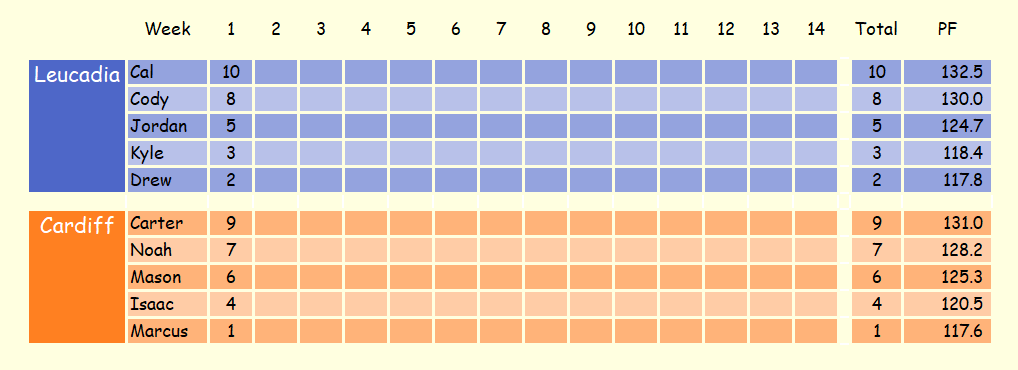
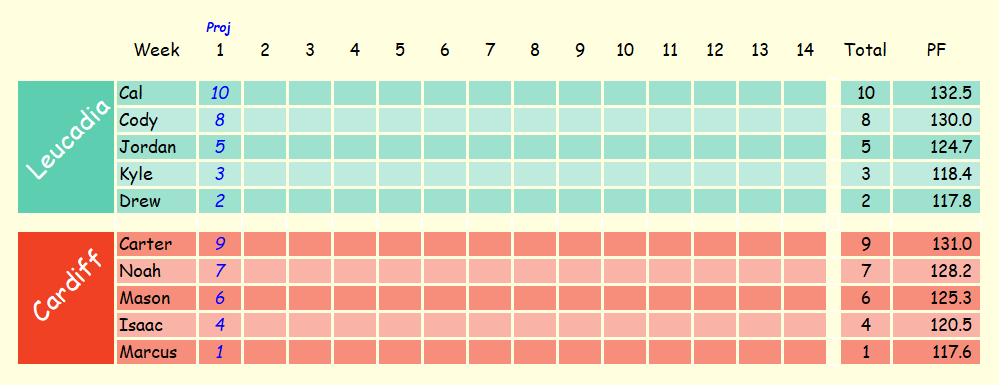
update scoreboard and html

diff --git a/link.html b/link.html
@@ -52,7 +52,7 @@
 
   <div class="container">
     <div class="nav">
-      <a href="#">Home</a> |
+      <a href="index.html">Home</a> |
       <a href="#">Hoots I have to give</a> |
       <a href="#">Championships Isaac has won</a> |
       <a href="#">Good idea list</a>
@@ -63,14 +63,14 @@
       <h1>Encinitas Dynasty</h1>
       <p><strong>Hello, league member!</strong> Welcome to the new era of ED's online presence.</p>
 
-      <img src="https://www.animatedimages.org/data/media/105/animated-computer-image-0050.gif" alt="Dancing Computer" />
+      <img src="https://media.giphy.com/media/v1.Y2lkPTc5MGI3NjExdThmZTc0bDJhYWU1eXhnNmhqYjJ5eXlzeDg1MHUydTY3bDlueWZmeSZlcD12MV9naWZzX3NlYXJjaCZjdD1n/iwmtARdVWvh3sUK98R/giphy.gif" alt="Dancing Computer" />
 
-      <p>Here's what's coming up:</p>
+      <!-- <p>Here's what's coming up:</p>
       <ul>
         <li>Summit where we argue about the meaning of it all</li>
         <li>Bland rookie draft</li>
         <li>Our 11th season</li>
-      </ul>
+      </ul> -->
     <!-- </center> -->
 
     <hr />

diff --git a/index.html b/index.html
@@ -57,15 +57,15 @@
   <div class="container">
     <div class="nav">
       <a href="#">Home</a> |
-      <a href="#">Hoots I have to give</a> |
-      <a href="#">Championships Isaac has won</a> |
-      <a href="#">Good idea list</a>
+      <a href="link.html">Hoots I have to give</a> |
+      <a href="link.html">Championships Isaac has won</a> |
+      <a href="link.html">Good idea list</a>
     </div>
 
     <!-- <center> -->
       <!-- <img src="ed_logo.png" alt="Under Construction" /><br /> -->
       <h1>Encinitas Dynasty</h1>
-      <p><strong>Hello, league member!</strong> Welcome to the new era of ED's online presence.</p>
+      <p><strong>Hello, league member!</strong> 🏆Congrats to 2025 ED Champion Marcus Rethwisch🏆</p>
 
       <img src="https://www.animatedimages.org/data/media/105/animated-computer-image-0050.gif" alt="Dancing Computer" />
 
